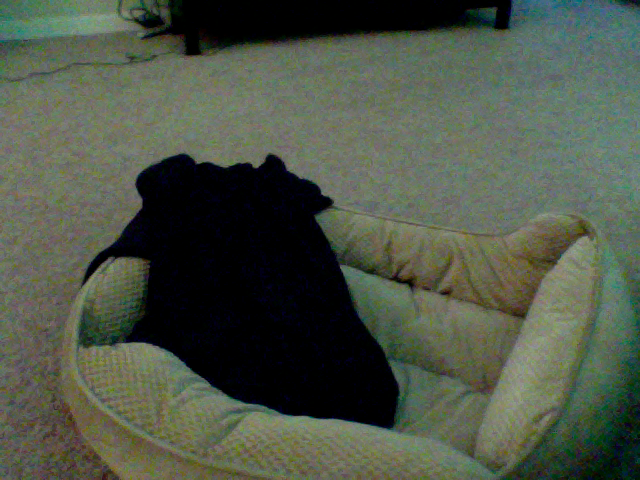
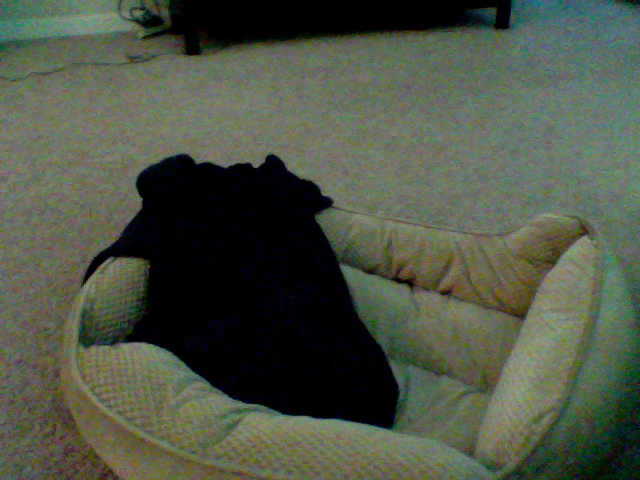
update at Month05Day12Time14:17

Changed region(s): [[0.0, 0.0, 1.0, 1.0]]

diff --git a/index.html b/index.html
@@ -39,8 +39,8 @@
       <!-- Example row of columns -->
       <div class="row">
         <div class="col-md-4">
-	<p>This picture was updated at Month05Day12Time14:16</p>
-		<img src="6_pic.png" />
+	<p>This picture was updated at Month05Day12Time14:17</p>
+		<img src="5_pic.png" />
         </div>
       </div>
 
